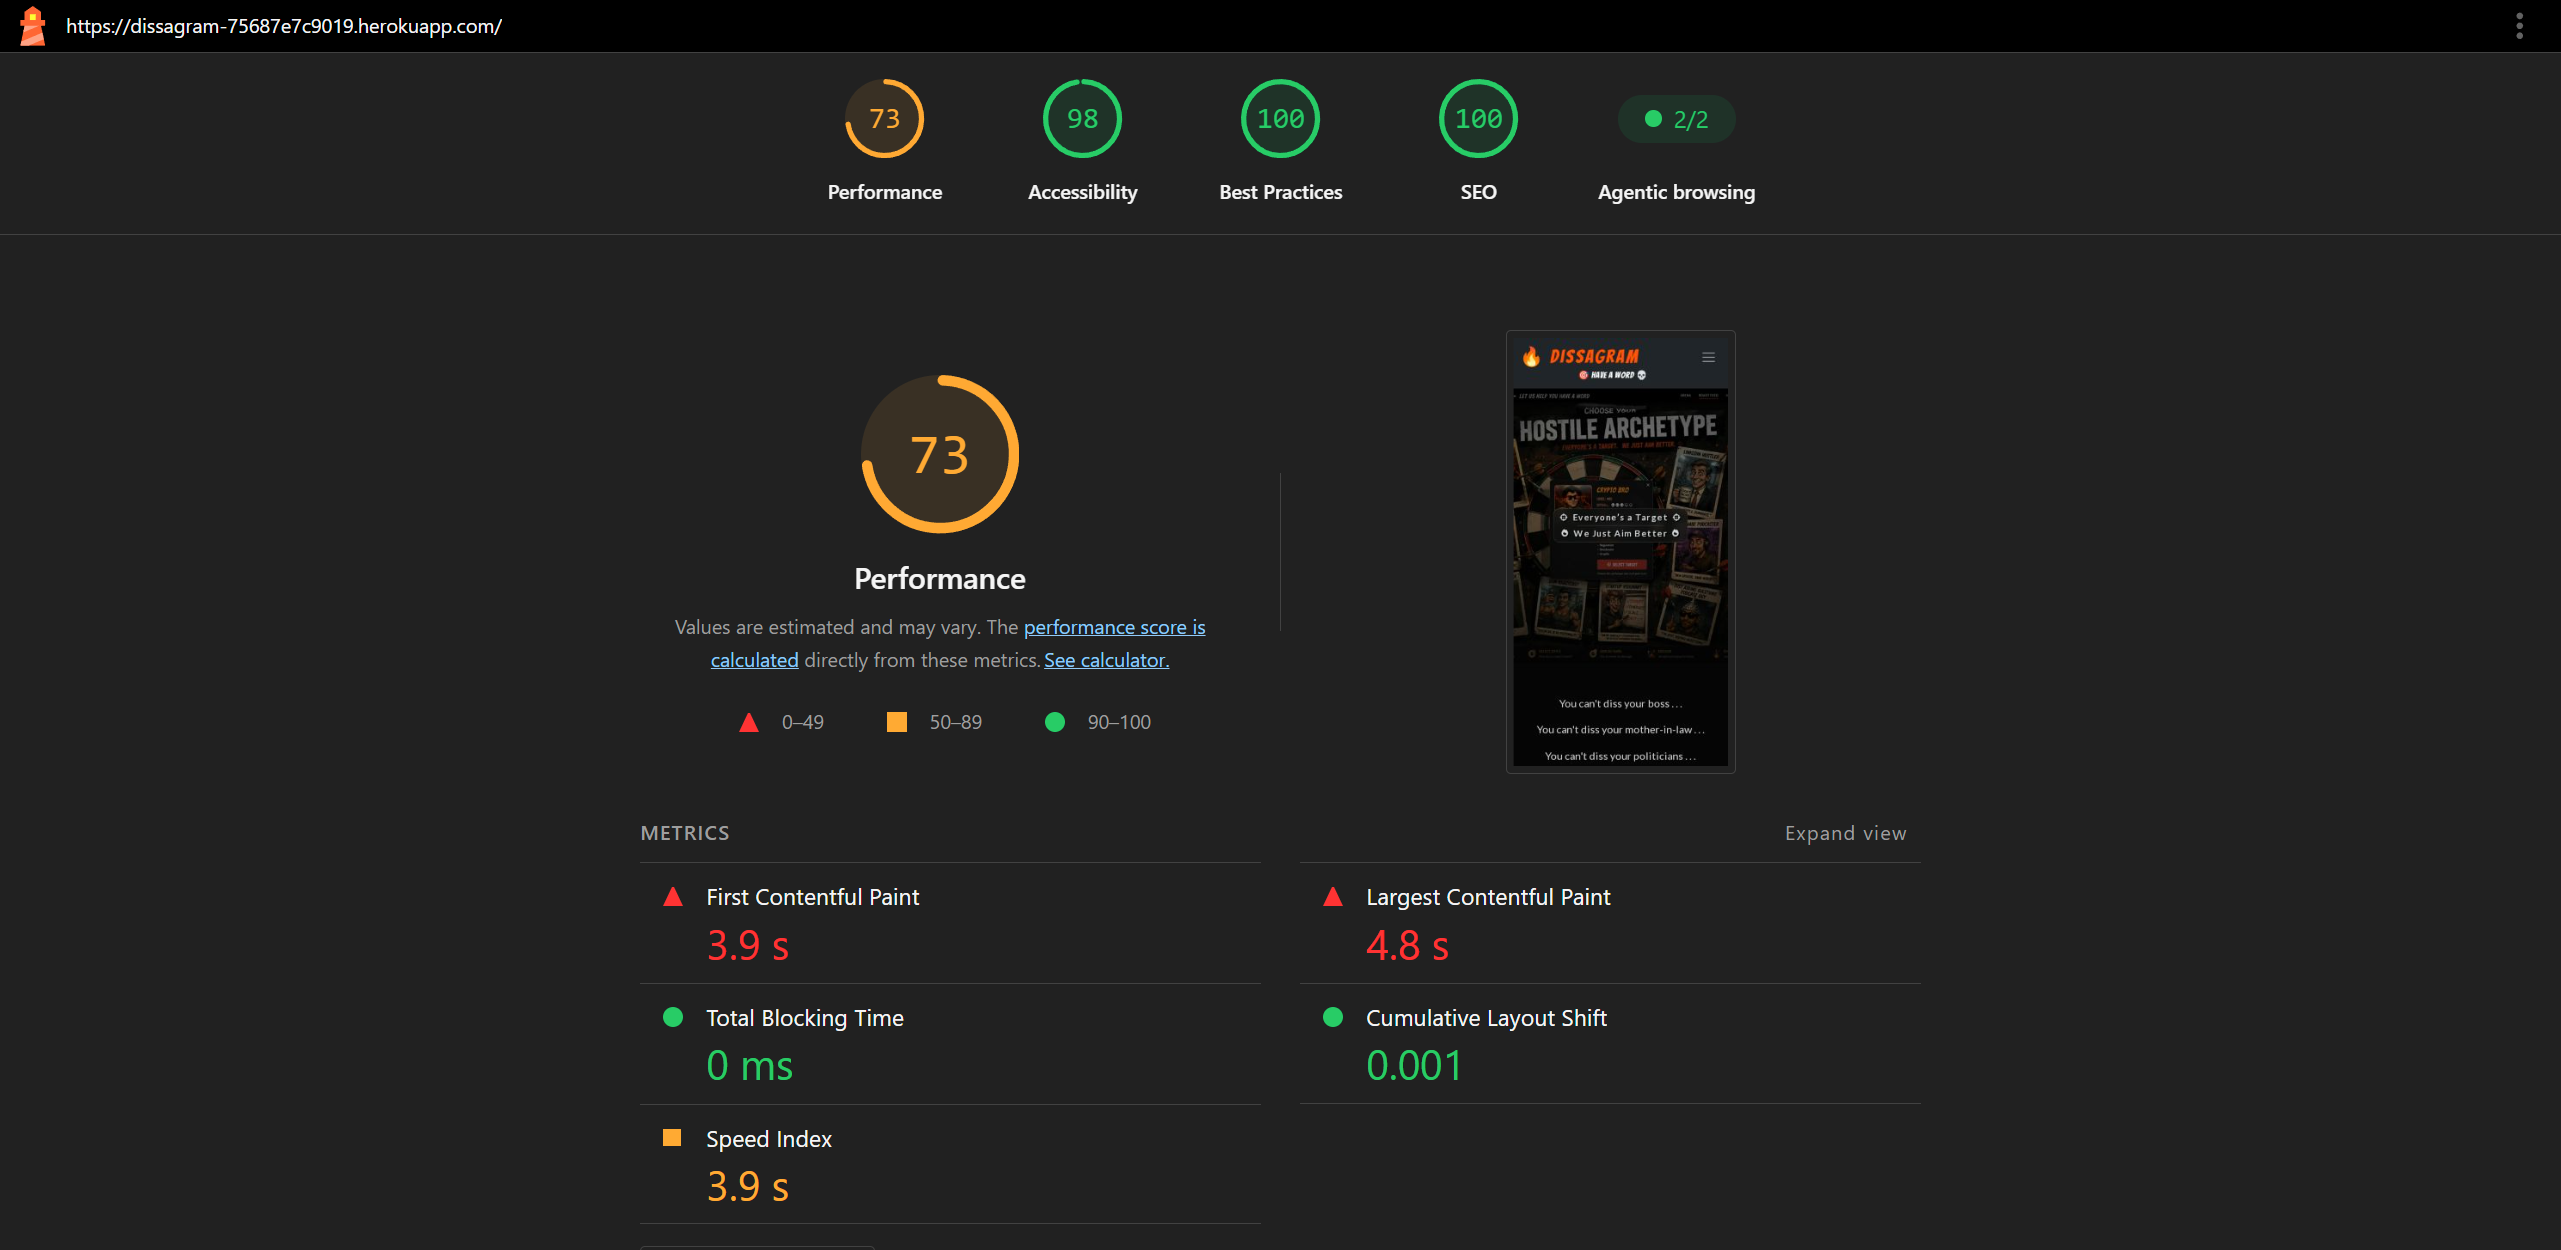
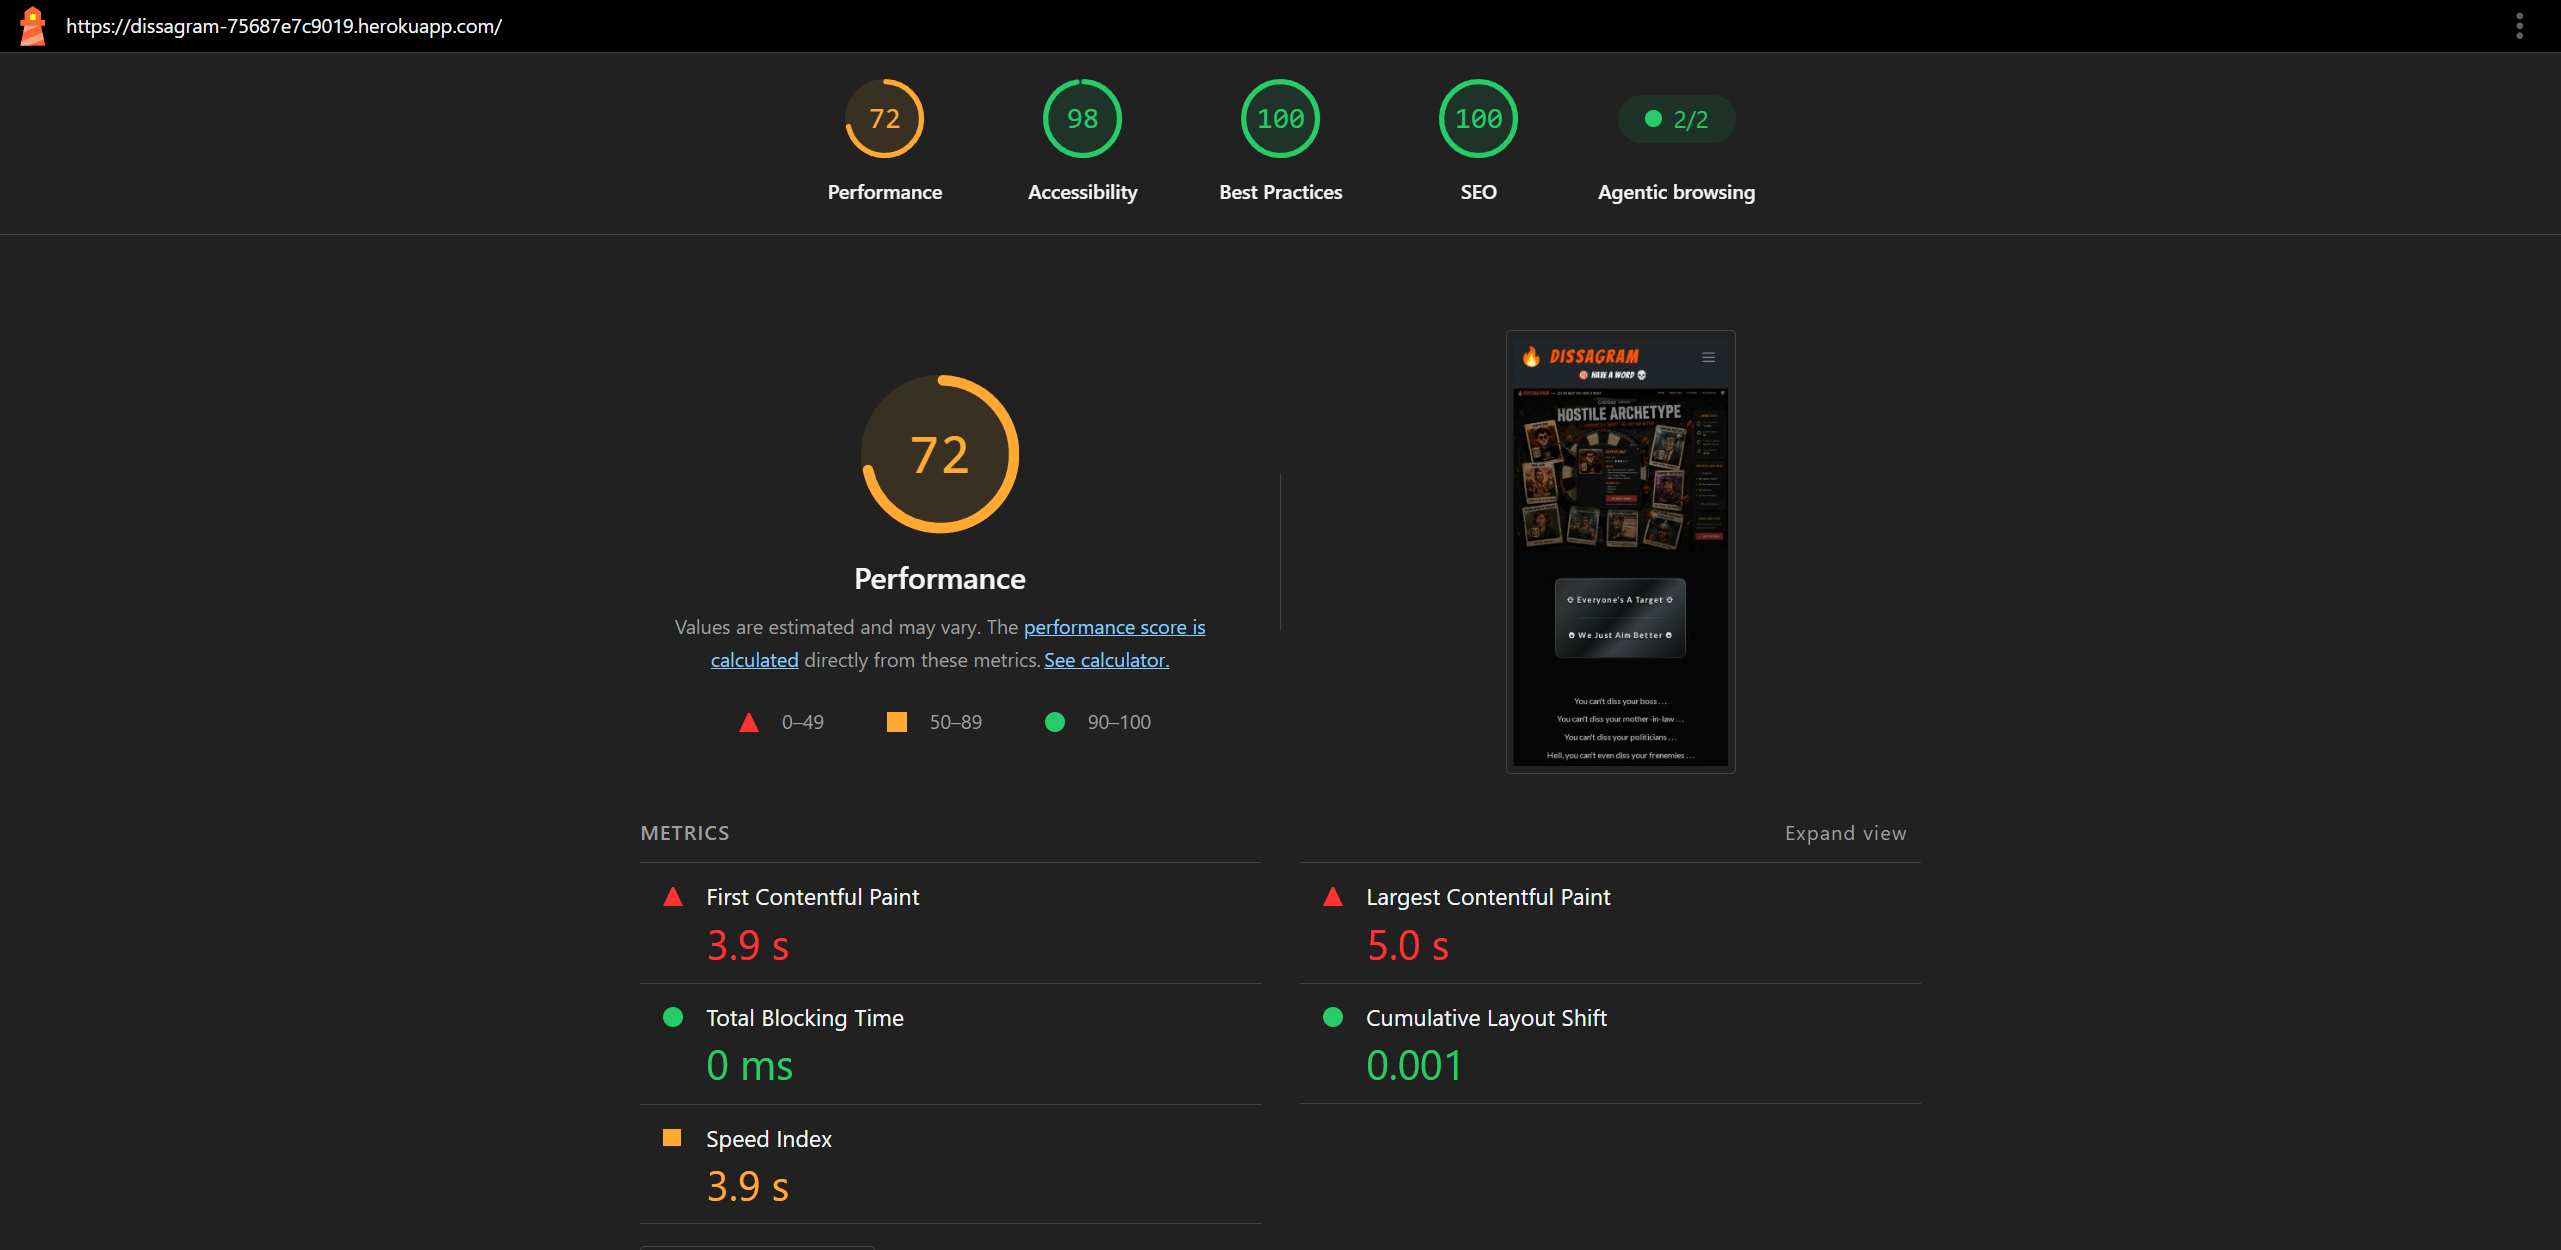
updated README mobile images

Changed region(s): [[0.5935, 0.312, 0.6872, 0.5304], [0.5935, 0.5616, 0.656, 0.624], [0.531, 0.7488, 0.5623, 0.78]]

diff --git a/README.md b/README.md
@@ -140,7 +140,7 @@ The value proposition is threefold:
 
 -   ## Colour Scheme
 
-    -   Dissagram's palette is built around a near-black base with hot orange, ember-gold and crimson accents — a late-night roast-battle look: fiery, bold and just dangerous enough, while still staying clean and readable. Off-white body text keeps longer sections comfortable against the dark background.
+    -   Dissagram's palette is built around a near-black base with hot orange, ember-gold and crimson accents — a late-night roast-battle look: fiery, bold and just dangerous enough, while still staying clean and readable. Off-white body text keeps longer sections comfortable against the dark background. RGB blues and greens are used to differentiate the packs, orders and payments pages, whilst adhering to the retro 80s & 90s arcade theme.  
 
     <h3 align="center"><img src="static/readme/palette.png"></h3>
 